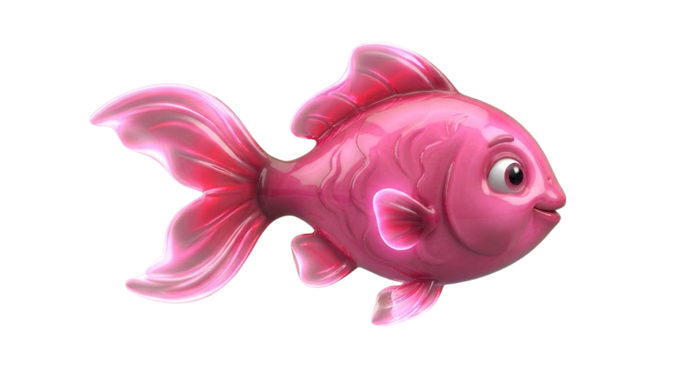
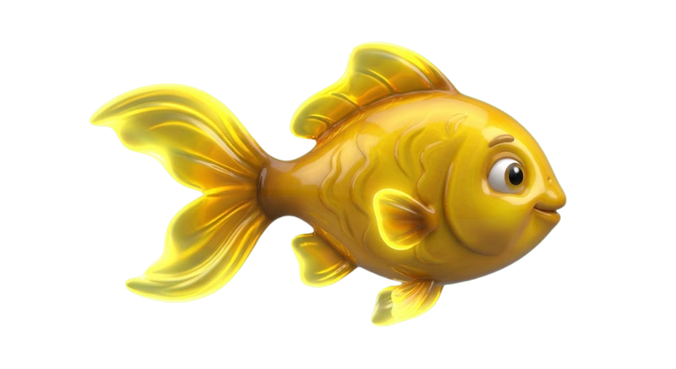
Debugging and finish the page

Changed region(s): [[0.1243, 0.0894, 0.8388, 0.8943]]

diff --git a/aqaruim.js b/aqaruim.js
@@ -1,7 +1,17 @@
 
-const FEEDS_TO_EXPLODE = 4;     
+
+console.log("AQUARIUM JS IS RUNNING");
+const FEEDS_TO_EXPLODE = 4;
 const SPRINKLES_FOR_FRENZY = 5;
-const pageUrl = (page) => `/${page}`; 
+const pageUrl = (page) => `/${page}`.html;
+
+const interestNames = {
+  design: "Design & Art",
+  movies: "Movies & Drama",
+  cooking: "Cooking & Baking",
+  learning: "Learning, History & Culture",
+  exploring: "Exploring & Trying New Things"
+};
 
 const $ = (sel) => document.querySelector(sel);
 const aquarium = $("#aquarium");
@@ -13,3 +23,198 @@ const helpBtn = $("#helpButton");
 const helpPanel = $("#helpPanel");
 const closeHelp = $("#closeHelp");
 
+
+
+if (aquarium && water && feedBtn && text) {
+  let selected = null;
+  let sprinkles = 0;
+  let busy = false;
+
+  const wait = (ms) =>
+    new Promise((resolve) => setTimeout(resolve, ms));
+
+  const say = (message) => { text.textContent = message; };
+
+  const nameOf = (fish) => fish.getAttribute("aria-label");
+  const interestOf = (fish) =>
+    interestNames[fish.dataset.page] || nameOf(fish);
+
+
+
+  const lock = (on) => { busy = on; feedBtn.disabled = on; };
+
+  text.setAttribute("aria-live", "polite");
+
+  function centerOf(el) {
+    const w = water.getBoundingClientRect();
+    const r = el.getBoundingClientRect();
+    return { x: r.left - w.left + r.width / 2, y: r.top - w.top + r.height / 2 };
+  }
+
+  function dropFood(x, targetY, count = 5) {
+    for (let i = 0; i < count; i++) {
+      const p = document.createElement("span");
+      p.className = "pellet";
+      p.style.left = `${x + (Math.random() - 0.5) * 60}px`;
+      p.style.top = "8px";
+      p.style.setProperty("--fall", `${Math.max(targetY - 8, 60)}px`);
+      p.style.animationDelay = `${i * 90}ms`;
+      p.addEventListener("animationend", () => p.remove());
+      water.append(p);
+    }
+  }
+
+  function chomp(fish) {
+    fish.classList.add("eating");
+    setTimeout(() => fish.classList.remove("eating"), 1100);
+  }
+
+  function burst(x, y, color) {
+    const ring = document.createElement("span");
+    ring.className = "shockwave";
+    ring.style.left = `${x}px`;
+    ring.style.top = `${y}px`;
+    water.append(ring);
+    setTimeout(() => ring.remove(), 900);
+
+    for (let i = 0; i < 18; i++) {
+      const s = document.createElement("span");
+      const angle = (Math.PI * 2 * i) / 18 + Math.random() * 0.4;
+      const dist = 90 + Math.random() * 130;
+      s.className = "burst";
+      s.style.left = `${x}px`;
+      s.style.top = `${y}px`;
+      s.style.setProperty("--dx", `${Math.cos(angle) * dist}px`);
+      s.style.setProperty("--dy", `${Math.sin(angle) * dist}px`);
+      s.style.setProperty("--c", i % 3 === 0 ? "#fff" : color);
+      water.append(s);
+      setTimeout(() => s.remove(), 1000);
+    }
+  }
+
+  /* ---------- Picking a fish ---------- */
+  fishes.forEach((fish) => {
+    fish.setAttribute("aria-pressed", "false");
+    fish.addEventListener("click", () => {
+      if (busy) return;
+      const same = selected === fish;
+      fishes.forEach((f) => { f.classList.remove("selected"); f.setAttribute("aria-pressed", "false"); });
+      if (same) {
+        selected = null;
+        say("Feed a fish to discover where it takes you.");
+        return;
+      }
+      selected = fish;
+      fish.classList.add("selected");
+      fish.setAttribute("aria-pressed", "true");
+      const left = FEEDS_TO_EXPLODE - Number(fish.dataset.feeds);
+
+      say(
+        `${interestOf(fish)} picked. Feed it ${left} more time${left > 1 ? "s" : ""}.`
+      );
+    });
+  });
+
+  feedBtn.addEventListener("click", () => {
+    if (busy) return;
+    selected ? feedFish(selected) : sprinkle();
+  });
+
+  async function feedFish(fish) {
+    lock(true);
+    const feeds = Number(fish.dataset.feeds) + 1;
+    fish.dataset.feeds = feeds;
+
+    const { x, y } = centerOf(fish);
+    dropFood(x, y);
+    await wait(900);
+    chomp(fish);
+    fish.style.setProperty("--grow", 1 + feeds * 0.14);
+
+    if (feeds >= FEEDS_TO_EXPLODE) return explode(fish);
+
+    if (feeds === FEEDS_TO_EXPLODE - 1) {
+      fish.classList.add("wobble");
+      say(`${interestOf(fish)} is about to burst! One more bite...`);
+    } else {
+      say(`Yum! ${interestOf(fish)} wants more.`);
+    }
+    lock(false);
+  }
+
+  async function sprinkle() {
+    lock(true);
+    sprinkles++;
+
+    const h = water.clientHeight;
+    for (let i = 0; i < 3; i++) {
+      dropFood(80 + Math.random() * (water.clientWidth - 160), h * (0.45 + Math.random() * 0.2), 4);
+    }
+    await wait(900);
+    chomp(fishes[Math.floor(Math.random() * fishes.length)]);
+
+    if (sprinkles >= SPRINKLES_FOR_FRENZY) return frenzy();
+
+    const left = SPRINKLES_FOR_FRENZY - sprinkles;
+    say(sprinkles === 1
+      ? "Everyone is nibbling. Pick a fish, or keep feeding and see what happens."
+      : `The tank is getting excited... ${left} more feed${left > 1 ? "s" : ""}.`);
+    lock(false);
+  }
+
+  async function frenzy() {
+    say("Feeding frenzy! The tank is choosing for you...");
+    water.classList.add("frenzy");
+    for (let i = 0; i < 4; i++) {
+      dropFood(60 + Math.random() * (water.clientWidth - 120), water.clientHeight * 0.6, 6);
+      await wait(350);
+    }
+    await wait(900);
+    water.classList.remove("frenzy");
+
+    const lucky = fishes[Math.floor(Math.random() * fishes.length)];
+    lucky.classList.add("lucky");
+    say(`${interestOf(lucky)} is your lucky fish!`);
+    await wait(1500);
+    explode(lucky);
+  }
+
+  async function explode(fish) {
+    lock(true);
+
+    fish.classList.remove("wobble", "lucky");
+    fish.classList.add("exploding");
+
+    say(`${interestOf(fish)} is bursting!`);
+
+    await wait(950);
+
+    const { x, y } = centerOf(fish);
+
+    burst(
+      x,
+      y,
+      getComputedStyle(fish)
+        .getPropertyValue("--fish-color")
+        .trim() || "#fff"
+    );
+
+    fish.classList.add("popped");
+    aquarium.classList.add("flash");
+
+    say(`Pop! Discovering ${interestOf(fish)}...`);
+
+    await wait(1300);
+
+    document.body.classList.add("leaving");
+
+    await wait(500);
+
+    window.location.href = pageUrl(fish.dataset.page);
+  }
+  if (helpBtn && helpPanel) {
+    const setHelp = (open) => helpPanel.classList.toggle("open", open);
+    helpBtn.addEventListener("click", () => setHelp(!helpPanel.classList.contains("open")));
+    closeHelp?.addEventListener("click", () => setHelp(false));
+    document.addEventListener("keydown", (e) => { if (e.key === "Escape") setHelp(false); });
+  }}

diff --git a/index.html b/index.html
@@ -1,4 +1,3 @@
-```html
 <!doctype html>
 <html lang="en">
 
@@ -56,66 +55,67 @@
         </div>
 
         <button
-          class="fish fish-blue"
+          class="fish fish-purple"
           data-page="design"
           data-feeds="0"
           aria-label="Design and Art">
 
           <img
+            src="Photos/fish-purple.png"
+            alt="purple fish representing Design and Art">
+
+        </button>
+
+
+        <button
+          class="fish fish-Colorful"
+          data-page="movies"
+          data-feeds="0"
+          aria-label="Movies and Drama">
+
+          <img
             src="Photos/fish-Colorful.png"
-            alt="colorful fish representing Design and Art">
+            alt="colorful fish representing Movies and Drama">
+
+        </button>
+        
+
+
+        <button
+          class="fish fish-red"
+          data-page="cooking"
+          data-feeds="0"
+          aria-label="Cooking and Baking">
+
+          <img
+            src="Photos/fish-red.png"
+            alt="red fish representing Cooking and Baking">
 
         </button>
 
 
         <button
           class="fish fish-orange"
-          data-page="movies"
-          data-feeds="0"
-          aria-label="Movies and Drama">
-
-          <img
-            src="Photos/fish-orange.png"
-            alt="Orange fish representing Movies and Drama">
-
-        </button>
-
-
-        <button
-          class="fish fish-purple"
-          data-page="cooking"
-          data-feeds="0"
-          aria-label="Cooking and Baking">
-
-          <img
-            src="Photos/fish-purple.png"
-            alt="Purple fish representing Cooking and Baking">
-
-        </button>
-
-
-        <button
-          class="fish fish-yellow"
           data-page="learning"
           data-feeds="0"
           aria-label="Learning History and Culture">
 
           <img
-            src="Photos/fish-yellow.png"
-            alt="Yellow fish representing Learning History and Culture">
+            src="Photos/fish-orange.png"
+            alt="orange fish representing Learning History and Culture">
 
         </button>
 
 
         <button
-          class="fish fish-red"
+          class="fish fish-pink"
           data-page="exploring"
           data-feeds="0"
           aria-label="Exploring and Trying New Things">
 
           <img
-            src="Photos/fish-red.png"
-            alt="Red fish representing Exploring and Trying New Things">
+            src="Photos/fish-pink.png"
+            alt="pink fish representing Exploring and Trying New Things">
 
         </button>
 
@@ -219,8 +219,7 @@
     src="/src/main.jsx">
   </script>
 <script 
-src="src/aqarium.js"></script>
+src="aqaruim.js"></script>
 </body>
 
 </html>
-```

diff --git a/style.css b/style.css
@@ -186,7 +186,7 @@ button.fish:focus-visible { outline: 3px dashed #fff; outline-offset: 6px; borde
 .fish-blue   { top: 34%; left: 6%;  animation-name: swim-a; animation-duration: 24s; }
 .fish-orange { top: 22%; left: 40%; animation-name: swim-b; animation-duration: 20s; }
 .fish-purple { top: 52%; left: 32%; animation-name: swim-c; animation-duration: 26s; }
-.fish-yellow { top: 48%; left: 68%; animation-name: swim-b; animation-duration: 28s; animation-delay: -8s; }
+.fish-pink { top: 48%; left: 68%; animation-name: swim-b; animation-duration: 28s; animation-delay: -8s; }
 .fish-red    { top: 30%; left: 58%; animation-name: swim-a; animation-duration: 30s; animation-delay: -14s; }
 
 .decorative-fish { width: clamp(30px, 5vw, 60px); opacity: 0.75; pointer-events: none; }
@@ -283,7 +283,6 @@ button.fish:focus-visible { outline: 3px dashed #fff; outline-offset: 6px; borde
   background: rgba(30, 90, 190, 0.5); color: #fff; font-size: 1.3rem; cursor: pointer;
 }
 
-/* ---------- Responsive + accessibility ---------- */
 @media (max-width: 720px) {
   .aquarium { aspect-ratio: 4 / 5; }
   .feeding-area { width: 96%; flex-wrap: wrap; justify-content: center; border-radius: 34px; padding: 16px; }
